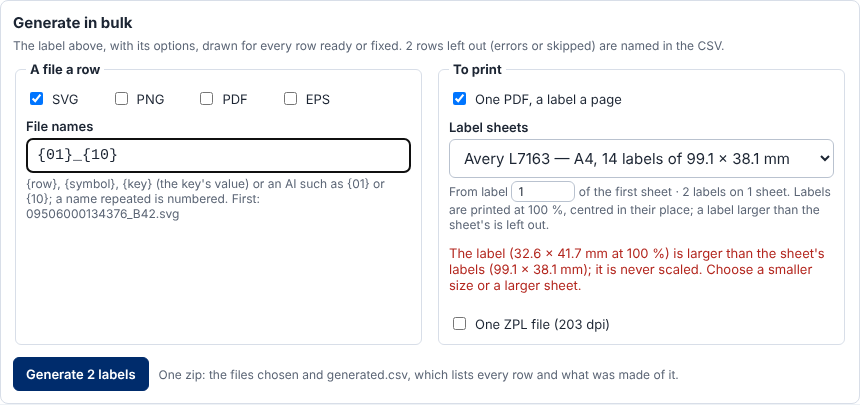
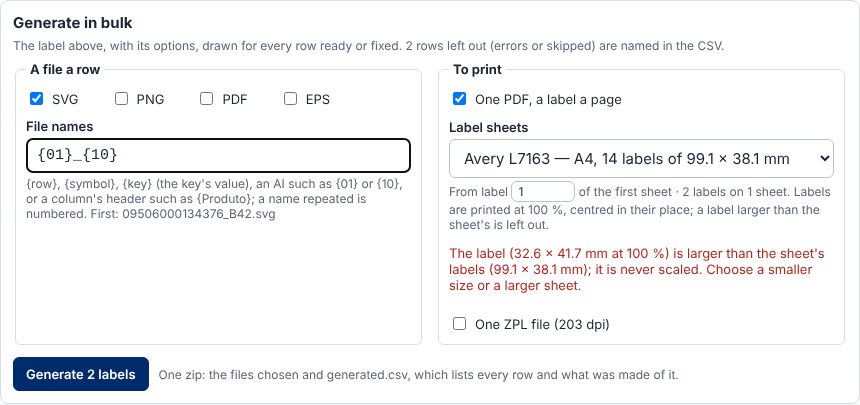
core, web, docs: file names from spreadsheet columns in bulk (4.2)
A bulk file name pattern knew {row}, {symbol}, {key} and AIs only, so files
could not be named by a column holding no AI, such as a product's name,
though a label of one's own could already show it. Any other name in braces
is now a column's header, matched as the label's {column} fields are (case
and surrounding spaces aside), on any label: the batch rows carry their
cells whatever the design. Accents are dropped before fileName, which keeps
ASCII letters only, so "Feijão" gives "Feijao" rather than "Feij-o".

The message for an unknown name was built with a nested template literal
the catalogue check could not read, so it was always shown in English; it is
now a plain template with its translations.

Claude-Session: https://claude.ai/code/session_01AV1ostLpLRPqG3Amnb7ba7

Changed region(s): [[0.0302, 0.4444, 0.4837, 0.563]]

diff --git a/packages/core/src/batch.ts b/packages/core/src/batch.ts
@@ -14,7 +14,7 @@ import { labelPng, pngAt } from "./png.ts";
 import { toDelimited } from "./report.ts";
 import { fitsSheet, sheetPages, type LabelSheet } from "./sheets.ts";
 import { fileName, zipArchive } from "./zip.ts";
-import { designLabel, turnedRect, type DesignedLabel, type DesignPage } from "./design.ts";
+import { columnCell, designLabel, turnedRect, type DesignedLabel, type DesignPage } from "./design.ts";
 import { logisticLabel, logisticPage, type LogisticLabel, type LogisticSize, type LogisticTwoD } from "./logistic.ts";
 import { pictureBitmap, resample } from "./picture.ts";
 import { joinPrintFiles, printFileBytes, PrinterUnsupportedError, type PrintFile, type PrintPage } from "./printers.ts";
@@ -320,7 +320,10 @@ export interface BatchRow {
   /** The row's number in the file, as a spreadsheet numbers it. */
   row: number;
   identified?: Identified;
-  /** The row's cells by their column's header, for a label of one's own's `{column}` fields (`fillFields`). */
+  /**
+   * The row's cells by their column's header, for a label of one's own's `{column}` fields (`fillFields`) and the file
+   * names' (`patternName`).
+   */
   cells?: Record<string, string>;
   /** Why the row cannot be drawn (the Syntax Engine's message), or that it was skipped. */
   error?: string;
@@ -331,7 +334,10 @@ export interface BatchRequest {
   design: LabelDesign;
   /** A file of each kind for every row. */
   files: readonly BatchFile[];
-  /** The files' names: `{row}`, `{symbol}`, `{key}` (the key's value) and any AI in braces, such as `{01}` or `{10}`. */
+  /**
+   * The files' names: `{row}`, `{symbol}`, `{key}` (the key's value), any AI in braces, such as `{01}` or `{10}`, and
+   * any column's header, such as `{Produto}` (the row's cell).
+   */
   pattern: string;
   /** One PDF with a label a page. */
   pdf: boolean;
@@ -365,24 +371,36 @@ export function patternTokens(pattern: string): string[] {
   return [...pattern.matchAll(/\{([^{}]*)\}/g)].map((m) => m[1]!);
 }
 
-/** What is wrong with a name pattern, or null: an unknown name in braces. */
-export function patternProblem(pattern: string): string | null {
+/**
+ * What is wrong with a name pattern, or null: an unknown name in braces. The spreadsheet's `columns` (its headers) are
+ * names it knows, their case and surrounding spaces aside.
+ */
+export function patternProblem(pattern: string, columns: readonly string[] = []): string | null {
   if (!pattern.trim()) return "The pattern is empty.";
-  const unknown = patternTokens(pattern).filter((t) => !["row", "symbol", "key"].includes(t) && !/^\d{2,4}$/.test(t));
-  return unknown.length
-    ? `Not a name the pattern knows: ${unknown.map((t) => `{${t}}`).join(", ")}. Use {row}, {symbol}, {key} or an AI such as {01} or {10}.`
-    : null;
+  const headers = new Set(columns.map((c) => c.trim().toLowerCase()).filter(Boolean));
+  const unknown = patternTokens(pattern).filter((t) =>
+    !["row", "symbol", "key"].includes(t) && !/^\d{2,4}$/.test(t) && !headers.has(t.trim().toLowerCase()));
+  if (!unknown.length) return null;
+  const names = unknown.map((name) => "{" + name + "}").join(", ");
+  return `Not a name the pattern knows: ${names}. Use {row}, {symbol}, {key}, an AI such as {01} or {10}, or a column's header such as {Produto}.`;
 }
 
-/** A row's file name, without its extension: the pattern's names replaced, then made safe for a file system. */
-export function patternName(pattern: string, row: number, symbology: SymbologyId, identified: Identified): string {
+/**
+ * A row's file name, without its extension: the pattern's names replaced, then made safe for a file system. A name that
+ * is neither {row}, {symbol}, {key} nor an AI is a column's header: the row's cell under it (`columnCell`, from `cells`).
+ * Letters lose their accents.
+ */
+export function patternName(pattern: string, row: number, symbology: SymbologyId, identified: Identified,
+  cells?: Readonly<Record<string, string>>): string {
   const values = new Map(identified.elements.map((e) => [e.ai, e.value]));
   const name = pattern.replace(/\{([^{}]*)\}/g, (_, token: string) =>
     token === "row" ? String(row)
     : token === "symbol" ? symbology
     : token === "key" ? (identified.elements[0]?.value ?? "")
-    : (values.get(token) ?? ""));
-  return fileName(name).replace(/^[-_.]+|[-_.]+$/g, "") || `row-${row}`;
+    : /^\d{2,4}$/.test(token) ? (values.get(token) ?? "")
+    : (columnCell(cells, token) ?? ""));
+  // Accents dropped first ("Feijão" → "Feijao"), as fileName keeps ASCII letters only
+  return fileName(name.normalize("NFD").replace(/\p{M}/gu, "")).replace(/^[-_.]+|[-_.]+$/g, "") || `row-${row}`;
 }
 
 /** Names made unique in their order: a name seen before gets "-2", "-3"…. */
@@ -424,7 +442,7 @@ export async function generateBatch(rows: readonly BatchRow[], request: BatchReq
     }
   });
   const ready = drawn.filter((d) => d.label);
-  const names = uniqueNames(ready.map((d) => patternName(request.pattern, d.row.row, design.symbology, d.row.identified!)));
+  const names = uniqueNames(ready.map((d) => patternName(request.pattern, d.row.row, design.symbology, d.row.identified!, d.row.cells)));
   ready.forEach((d, i) => (d.name = names[i]));
 
   const files: { name: string; bytes: Uint8Array }[] = [];

diff --git a/packages/core/test/batch.test.ts b/packages/core/test/batch.test.ts
@@ -163,6 +163,23 @@ describe("file names", () => {
     expect(patternProblem("{row}{8020}")).toBeNull();
     expect(patternProblem("  ")).toMatch(/empty/);
   });
+
+  // Backlog 4.2: a column's header in braces names the files by the row's cell, on any label, not only one's own
+  it("replaces a column's header by the row's cell, its case and surrounding spaces aside, and knows the headers", () => {
+    const identified = engine.parse("(01)09506000134376(10)B42") as never;
+    const cells = { " Produto ": "Pesto alla genovese", Região: "Sul", "10": "ten", row: "r", Vazio: "" };
+    expect(patternName("{produto}_{10}", 7, "dl-qrcode", identified, cells)).toBe("Pesto-alla-genovese_B42");
+    expect(patternName("{ REGIÃO }-{row}", 7, "dl-qrcode", identified, cells)).toBe("Sul-7"); // {row} is the row, not the column
+    expect(patternName("{Cor}{Vazio}", 7, "dl-qrcode", identified, cells)).toBe("row-7"); // no such column, an empty cell
+    expect(patternName("{Produto}", 7, "dl-qrcode", identified)).toBe("row-7"); // no cells
+    expect(patternName("{Produto}", 7, "dl-qrcode", identified, { Produto: "Feijão Ñandú" })).toBe("Feijao-Nandu");
+    const headers = ["GTIN", " Produto ", "Região", ""];
+    expect(patternProblem("{produto}_{ Região }_{01}", headers)).toBeNull();
+    expect(patternProblem("{Produto}_{Cor}", headers)).toBe(
+      "Not a name the pattern knows: {Cor}. Use {row}, {symbol}, {key}, an AI such as {01} or {10}, or a column's header such as {Produto}.");
+    expect(patternProblem("{Produto}_{}", headers)).toMatch(/knows: \{\}\./); // an empty header is no name
+    expect(patternProblem("{Produto}")).toMatch(/knows: \{Produto\}\./); // no spreadsheet
+  });
 });
 
 describe("generating every row", () => {
@@ -295,6 +312,9 @@ describe("generating every row", () => {
     expect(await read(svgPng(svg("B42.svg")))).toEqual(["]Q1 https://id.gs1.org/01/09506000134376/10/B42"]);
     const zpl = new TextDecoder().decode(files.get("labels_dl-qrcode_203dpi.zpl"));
     expect(zpl.match(/\^FD(Tapenade|Pesto alla genovese|LOTE B4\d)\^FS/g)).toEqual(["^FDTapenade^FS", "^FDLOTE B42^FS", "^FDPesto alla genovese^FS", "^FDLOTE B43^FS"]);
+    // The files named by a column, a design without fields too
+    const named = await generateBatch(rows, { design: QR, files: ["svg"], pattern: "{produto}_{row}", pdf: false }, font);
+    expect([...unzip(named.zip).keys()]).toEqual(["Tapenade_2.svg", "Pesto-alla-genovese_3.svg", "generated.csv"]);
     // Without the cells (a single label) the field stays as typed
     expect(labelFor(rows[0]!.identified!, design, font).layout.texts.map((t) => t.text)).toEqual(["{Produto}", "LOTE B42"]);
   }, SLOW);

diff --git a/apps/web/e2e/editor.spec.ts b/apps/web/e2e/editor.spec.ts
@@ -453,6 +453,34 @@ test("a label of one's own in bulk: a {column} field shows each row's cell, on t
   expect(zpl.match(/\^FD[^^]*(Tapenade|genovese|Liguria|\{Cor\})[^^]*\^FS/g)).toEqual(["^FDFinest Truffle Tapenade^FS", "^FDLiguria · {Cor}^FS", "^FDPesto alla genovese^FS", "^FD · {Cor}^FS"]);
 });
 
+// Backlog 4.2: a column's header in braces names the generated files by each row's cell, on any label
+test("in bulk: a column's header in the file names pattern names each row's files by its cell", async ({ page }) => {
+  await page.getByRole("button", { name: "In bulk" }).click();
+  await page.fill("#rows-paste", "GTIN\tLote\tProduto\tRegião\n09506000134376\tB42\tFeijão Tropeiro\tSul\n09506000134352\tB43\tPesto alla genovese\t\n");
+  await page.getByRole("button", { name: "Use the pasted rows" }).click();
+  await expect(page.locator(".summary")).toContainText("2 rows ready");
+  await on(page, "export");
+  const panel = page.locator(".generate");
+  await expect(panel.locator(".hint", { hasText: "column's header" })).toContainText("or a column's header such as {Produto}");
+  await page.locator("#gen-pattern").fill("{produto}_{Cor}");
+  await expect(panel.locator(".error")).toHaveText(
+    "Not a name the pattern knows: {Cor}. Use {row}, {symbol}, {key}, an AI such as {01} or {10}, or a column's header such as {Produto}.");
+  await expect(page.getByRole("button", { name: "Generate 2 labels" })).toBeDisabled();
+  await page.locator("#gen-pattern").fill("{produto}_{ REGIÃO }_{10}");
+  await expect(panel).toContainText("First: Feijao-Tropeiro_Sul_B42.svg");
+  const [download] = await Promise.all([page.waitForEvent("download"), page.getByRole("button", { name: "Generate 2 labels" }).click()]);
+  expect(execFileSync("unzip", ["-Z1", (await download.path())!], { encoding: "utf8" }).split("\n").filter(Boolean)).toEqual([
+    "Feijao-Tropeiro_Sul_B42.svg", "Pesto-alla-genovese__B43.svg", "labels_dl-qrcode.pdf", "generated.csv",
+  ]);
+  // In Portuguese, the message too
+  await on(page, "more");
+  await page.selectOption("#language", "pt-BR");
+  await on(page, "export");
+  await page.locator("#gen-pattern").fill("{Cor}");
+  await expect(panel.locator(".error")).toHaveText(
+    "O nome não é conhecido pelo padrão: {Cor}. Use {row}, {symbol}, {key}, um AI como {01} ou {10}, ou o cabeçalho de uma coluna como {Produto}.");
+});
+
 // Item 2.1 (mock-up A of 29 October 2026): in bulk, rows from a file or pasted, their columns, the row shown.
 test("in bulk: an Excel workbook's rows, columns guessed from their headers, each row drawn and checked", async ({ page }) => {
   await page.getByRole("button", { name: "In bulk" }).click();

diff --git a/apps/web/src/GeneratePanel.tsx b/apps/web/src/GeneratePanel.tsx
@@ -24,6 +24,8 @@ interface Props {
   left: number;
   /** The first row's file name for a pattern, as an example. */
   example: (pattern: string) => string | null;
+  /** The spreadsheet's headers: a column's header in braces names the files by the row's cell. */
+  columns: readonly string[];
   dpi: number;
   /** The label shown, in mm at 100 %: whether it fits the sheet's labels. */
   labelMm?: readonly [number, number];
@@ -79,7 +81,7 @@ function Num({ id, label, value, onChange }: { id: string; label: string; value:
   );
 }
 
-export function GeneratePanel({ ready, left, example, dpi, labelMm, progress, result, error, onGenerate, onCancel, languageName }: Props) {
+export function GeneratePanel({ ready, left, example, columns, dpi, labelMm, progress, result, error, onGenerate, onCancel, languageName }: Props) {
   const [choice, setChoice] = useState<Kept>(kept);
   const [start, setStart] = useState(1);
   const update = (next: Partial<Kept>) => {
@@ -95,7 +97,7 @@ export function GeneratePanel({ ready, left, example, dpi, labelMm, progress, re
   const perSheet = sheet ? sheet.columns * sheet.rows : 0;
   const from = Math.min(Math.max(1, Math.floor(start) || 1), perSheet || 1);
   const sheets = sheet ? Math.ceil((from - 1 + ready) / perSheet) : 0;
-  const problem = patternProblem(choice.pattern) ?? (sheet ? sheetProblem(sheet) : null);
+  const problem = patternProblem(choice.pattern, columns) ?? (sheet ? sheetProblem(sheet) : null);
   const tooLarge = sheet && labelMm && !sheetProblem(sheet) ? fitsSheet(labelMm[0], labelMm[1], sheet) : null;
   const nothing = !choice.files.length && !choice.pdf && !sheet && !choice.zpl;
   const first = choice.files.length && !problem ? example(choice.pattern) : null;
@@ -128,7 +130,7 @@ export function GeneratePanel({ ready, left, example, dpi, labelMm, progress, re
           </div>
           <label htmlFor="gen-pattern">{t("File names")}</label>
           <input id="gen-pattern" className="mono" value={choice.pattern} spellCheck={false}
-            aria-invalid={Boolean(patternProblem(choice.pattern))} onChange={(e) => update({ pattern: e.target.value })} />
+            aria-invalid={Boolean(patternProblem(choice.pattern, columns))} onChange={(e) => update({ pattern: e.target.value })} />
           <div className="hint">
             {t(GENERATE_TEXTS.pattern)}
             {first ? ` ${t("First: {name}", { name: `${first}.${choice.files[0]}` })}` : ""}

diff --git a/apps/web/src/App.tsx b/apps/web/src/App.tsx
@@ -516,7 +516,7 @@ export function App({ onStartOver, onLocale }: { locale?: Locale; onStartOver?: 
   // In bulk: every row ready or fixed drawn with the label's design, in one zip (backlog 2.4).
   const batchRows: BatchRow[] = rows.map((row, index) => ({
     row: row.row, ...(row.identified ? { identified: row.identified } : {}), ...(row.error ? { error: row.error } : {}),
-    ...(skipped.has(index) ? { skipped: true } : {}), ...(settings.designer ? { cells: cellsOf(index) } : {}),
+    ...(skipped.has(index) ? { skipped: true } : {}), cells: cellsOf(index),
   }));
   const readyRows = batchRows.filter((row) => row.identified && !row.skipped);
   // Generated in a worker (backlog 2.5): the page stays usable, the progress shows, and Cancel ends the worker.
@@ -952,7 +952,8 @@ export function App({ onStartOver, onLocale }: { locale?: Locale; onStartOver?: 
                 <GeneratePanel
                   ready={blocked || !font ? 0 : readyRows.length}
                   left={batchRows.length - readyRows.length}
-                  example={(pattern) => readyRows[0] ? patternName(pattern, readyRows[0].row, symbology, readyRows[0].identified!) : null}
+                  example={(pattern) => readyRows[0] ? patternName(pattern, readyRows[0].row, symbology, readyRows[0].identified!, readyRows[0].cells) : null}
+                  columns={edited?.headers ?? []}
                   dpi={settings.dpi}
                   {...(view.widthMm && view.heightMm ? { labelMm: [view.widthMm, view.heightMm] as const } : {})}
                   progress={progress}

diff --git a/apps/web/src/texts.ts b/apps/web/src/texts.ts
@@ -268,7 +268,7 @@ export const BULK_TEXTS = {
 // In bulk, generating every row (backlog 2.4).
 export const GENERATE_TEXTS = {
   intro: "The label above, with its options, drawn for every row ready or fixed.",
-  pattern: "{row}, {symbol}, {key} (the key's value) or an AI such as {01} or {10}; a name repeated is numbered.",
+  pattern: "{row}, {symbol}, {key} (the key's value), an AI such as {01} or {10}, or a column's header such as {Produto}; a name repeated is numbered.",
   sheet: "Labels are printed at 100 %, centred in their place; a label larger than the sheet's is left out.",
   zip: "One zip: the files chosen and generated.csv, which lists every row and what was made of it.",
   nothing: "Choose at least one file to generate.",

diff --git a/docs/test-inventory.md b/docs/test-inventory.md
@@ -1,6 +1,6 @@
 # Inventory of features from the tests
 
-Every test of the core's suite, of the web application's unit tests and of the editor's browser tests on 2026-11-06: 940 tests in 43 files. Each line is a test's name, a sentence that says what is true when it passes; together they say what the studio does and that it works. Each feature of [features.md](features.md) names the tests that prove it. Generated by `node scripts/inventory.mjs` from a complete run of the core's tests and the list of the browser tests ([ADR 0005](adr/0005-documentation-and-feature-inventory.md)); do not edit by hand.
+Every test of the core's suite, of the web application's unit tests and of the editor's browser tests on 2026-11-06: 942 tests in 43 files. Each line is a test's name, a sentence that says what is true when it passes; together they say what the studio does and that it works. Each feature of [features.md](features.md) names the tests that prove it. Generated by `node scripts/inventory.mjs` from a complete run of the core's tests and the list of the browser tests ([ADR 0005](adr/0005-documentation-and-feature-inventory.md)); do not edit by hand.
 
 Every unit test ran and passed in the run that wrote this file, the ZPL printed by Labelary included (`LABELARY=1`), but the documents' own test (`docs`), which checks this file and runs right after it is written. The browser tests are listed by Playwright and run by CI against the built application, on a desktop, a phone and a tablet held horizontally (a test about one layout is skipped in the others).
 
@@ -10,13 +10,13 @@ Every unit test ran and passed in the run that wrote this file, the ZPL printed 
 | [Where it is scanned: the guided choice and the symbol specification tables](#where-it-is-scanned-the-guided-choice-and-the-symbol-specification-tables) | `environments`, `guide`, `specifications` | 185 |
 | [Symbols and the label's layout](#symbols-and-the-labels-layout) | `bars`, `design`, `gs1128`, `hriplace`, `imagefile`, `labelsvg`, `layout`, `logistic`, `picture`, `place`, `pyformat`, `qrmode` | 128 |
 | [Exports and prepress: SVG, PNG, PDF, EPS, zip](#exports-and-prepress-svg-png-pdf-eps-zip) | `prepress`, `render`, `roundtrip` | 52 |
-| [In bulk: rows, the report, sequences, generation](#in-bulk-rows-the-report-sequences-generation) | `batch`, `bulk`, `report`, `sequence`, `table` | 78 |
+| [In bulk: rows, the report, sequences, generation](#in-bulk-rows-the-report-sequences-generation) | `batch`, `bulk`, `report`, `sequence`, `table` | 79 |
 | [Printers: the dot grid, profiles, ZPL, TSPL, EPL2 and DPL](#printers-the-dot-grid-profiles-zpl-tspl-epl2-and-dpl) | `dots`, `labelary`, `printer`, `printlangs`, `zpl` | 216 |
 | [RFID, NFC and digital signatures](#rfid-nfc-and-digital-signatures) | `epc`, `ndef`, `sign` | 124 |
 | [The work saved on one's own computer and opened again](#the-work-saved-on-ones-own-computer-and-opened-again) | `lastwork`, `opened`, `work` | 9 |
 | [The interface's languages: English, Brazilian Portuguese, Spanish](#the-interfaces-languages-english-brazilian-portuguese-spanish) | `i18n` | 9 |
 | [The documents](#the-documents) | `docs` | 7 |
-| [The editor in the browser (Playwright, desktop, phone and tablet)](#the-editor-in-the-browser-playwright-desktop-phone-and-tablet) | `editor`, `layouts` | 64 |
+| [The editor in the browser (Playwright, desktop, phone and tablet)](#the-editor-in-the-browser-playwright-desktop-phone-and-tablet) | `editor`, `layouts` | 65 |
 
 ## Input and identification: the Syntax Engine, keys, qualifiers, attributes
 
@@ -576,7 +576,7 @@ Every unit test ran and passed in the run that wrote this file, the ZPL printed 
 
 ## In bulk: rows, the report, sequences, generation
 
-<details><summary><code>batch</code> — 13 tests (<code>packages/core/test/batch.test.ts</code>)</summary>
+<details><summary><code>batch</code> — 14 tests (<code>packages/core/test/batch.test.ts</code>)</summary>
 
 - label sheets › describes each sheet offered within its page, its labels centred
 - label sheets › refuses a custom sheet whose labels overlap or leave the page, or whose numbers are not sizes
@@ -584,6 +584,7 @@ Every unit test ran and passed in the run that wrote this file, the ZPL printed 
 - label sheets › lays the labels row by row from the place given, a new page when one is full; each read back
 - a PDF of several pages › writes each page its size, the cross-reference table right, and one page as labelPdf writes it
 - file names › replaces the row, the symbol, the key's value and any AI, and makes the name safe
+- file names › replaces a column's header by the row's cell, its case and surrounding spaces aside, and knows the headers
 - generating every row › makes each row's files, numbers repeated names, leaves out errors and skipped rows, and lists them all
 - generating every row › writes the print file in the printer's language: TSPL, each label its own SIZE and PRINT
 - generating every row › prints the human readable text chosen: every element string, the key's alone, or none
@@ -1121,7 +1122,7 @@ Every unit test ran and passed in the run that wrote this file, the ZPL printed 
 
 ## The editor in the browser (Playwright, desktop, phone and tablet)
 
-<details><summary><code>editor</code> — 57 tests (<code>apps/web/e2e/editor.spec.ts</code>)</summary>
+<details><summary><code>editor</code> — 58 tests (<code>apps/web/e2e/editor.spec.ts</code>)</summary>
 
 - qualifiers and a decimal attribute go into the URI as typed
 - a wrong check digit says which it should be
@@ -1144,6 +1145,7 @@ Every unit test ran and passed in the run that wrote this file, the ZPL printed 
 - works offline once loaded, the scan test too
 - tobacco unit packs: GS1 DotCode named but not drawn, GS1 DataMatrix at table 12's size
 - a label of one's own in bulk: a {column} field shows each row's cell, on the label and in the print file
+- in bulk: a column's header in the file names pattern names each row's files by its cell
 - in bulk: an Excel workbook's rows, columns guessed from their headers, each row drawn and checked
 - in bulk: pasted rows, a value for every row, and the columns remembered for the same headers
 - in bulk: the validation report, a cell fixed in place, rows skipped, the report and the corrected rows

diff --git a/docs/features.md b/docs/features.md
@@ -153,6 +153,7 @@ Which standard each follows: [conformance](conformance.md).
 | A date field in a format | `{17:DD/MM/YYYY}` in a text block writes the date in that format: **Insert a field from the data** offers each date AI (those whose value starts with YYMMDD) also as DD/MM/YYYY, DD.MM.YYYY, YYYY-MM-DD, MM/YYYY and DD MMM YYYY, each shown with the date it gives (mock-up B of two); any format of `DD`, `MM`, `MMM`, `YY` and `YYYY` typed; the century as section 7.12 chooses it, day 00 the month's last; drawn and printed as text; a format after an AI that is not a date, or without a part of the date, refused | `4ada8c8` | `design`: writes a date field in the format it names · `design`: prints a date field in its format · `editor`: barcodes and text placed and moved |
 | A date's month in Portuguese or Spanish | **Month names** on a text block whose text has `MMM`: English (JAN to DEC), Portuguese (JAN, FEV, MAR, ABR, MAI, JUN, JUL, AGO, SET, OUT, NOV, DEZ) or Spanish (ENE, FEB, MAR, ABR, MAY, JUN, JUL, AGO, SEP, OCT, NOV, DIC), in the drawing and the print files alike; a new text block starts in the interface's language (mock-up B of two) | `b43efe1` | `design`: writes a date's month in the text block's language · `design`: prints a date field in its format · `editor`: a new text block writes its months in Portuguese · `editor`: barcodes and text placed and moved |
 | Fields bound to spreadsheet columns | In bulk, a text block's `{column}` field shows the row's cell under that header: **Insert a field from the data** also offers, under *Columns of the spreadsheet*, each column holding no AI, with the row shown's value (mock-up A of two, taken under the owner's rule); the header's case and the spaces around it aside; each row's label and print file with its own cells; a name no column has stays as typed | `8b55a0c` | `design`: fills a {column} field from the row's cell · `bulk`: keeps each cell trimmed under its header · `bulk`: offers as fields the columns holding no AI · `batch`: fills each row's {column} fields of a label of one's own · `editor`: a label of one's own in bulk: a {column} field shows each row's cell |
+| File names from spreadsheet columns | In bulk, **File names** takes any column's header in braces, such as `{Produto}`, for the row's cell, on any label, not only one's own; the header's case and the spaces around it aside, accents dropped (*Feijão* → *Feijao*); a name that is neither `{row}`, `{symbol}`, `{key}`, an AI nor a header refused before generating, in the interface's language | `PENDING` | `batch`: replaces a column's header by the row's cell · `batch`: fills each row's {column} fields of a label of one's own · `editor`: in bulk: a column's header in the file names pattern |
 | A label of one's own in EPL2 | As in ZPL: each barcode with the commands of the symbol alone where the page puts it, each line of text with `A` in the font nearest its height that fits its width; what EPL2 refuses for a symbol alone refused here too | `1fa0231` | `printlangs`: epl: a label of one's own at · `design`: writes the page in ZPL |
 | A new element beside, not over, another | **+ Barcode**, **+ Text** and **+ Shape** put the new element at their usual corner; where an element already has it, 5 mm right and down, and again along the page, a diagonal at a time (the owner: one made over another went unnoticed) | `80f604e` | `place`: at its corner when no element has it · `place`: past the page's foot · `editor`: each new element a step right and down |
 | An image on a label of one's own | **+ Image** (mock-up A of two, taken under the owner's rule): a PNG, JPEG, GIF, WebP or SVG file placed 20 mm wide, its height from its proportions, in black and white as label printers print (a pixel's grey over white below half way dark; at most 600 pixels a side, a larger one scaled down); **Replace…**; drawn in SVG, PNG, PDF and EPS; in ZPL as `^GFA` at the printer's dots (each dot the pixel under its centre), in stripes past one field, every dot as Labelary prints it; past the label's edge named and refused in a print file; kept in the work file; in EPL2 as `GW` (see its own row) | `e330822` | `picture`: is dark where a pixel's grey · `picture`: is resampled to a printer's dots · `picture`: is drawn as rectangles · `design`: draws an image where the page puts it · `labelary`: its image printed dot for dot · `labelary`: an image larger than one graphic field · `work`: refuses a work file with a part · `editor`: an image added, sized |

diff --git a/docs/core-api.md b/docs/core-api.md
@@ -656,8 +656,8 @@ Every row's label from one design: files by a name pattern, PDF, sheets, ZPL, a 
 | `DEFAULT_PATTERN` | const | `const DEFAULT_PATTERN` |  |
 | `generateBatch` | function | `async function generateBatch(rows: readonly BatchRow[], request: BatchRequest, font: HriFont, onProgress?: (done: number, total: number) =&gt; void): Promise&lt;Ba…` | Every row's label as the request asks, in one zip: the files of each row, the label-a-page PDF, the label sheets, the ZPL file, and `generated.csv` listing each row, what was made of it, or why nothing was. Rows skipped or in error are left out and named in the CSV, as are rows the design cannot draw (data its symbol cannot carry, a label larger than the sheet's). |
 | `labelFor` | function | `function labelFor(identified: Identified, design: LabelDesign, font: HriFont, cells?: Readonly&lt;Record&lt;string, string&gt;&gt;): DrawnLabel` | The label of `identified` as `design` lays it out; an `InputError` when this data cannot be drawn so. In bulk, `cells` (a row's cells by their column's header) fill a label of one's own's `{column}` fields. |
-| `patternName` | function | `function patternName(pattern: string, row: number, symbology: SymbologyId, identified: Identified): string` | A row's file name, without its extension: the pattern's names replaced, then made safe for a file system. |
-| `patternProblem` | function | `function patternProblem(pattern: string): string \| null` | What is wrong with a name pattern, or null: an unknown name in braces. |
+| `patternName` | function | `function patternName(pattern: string, row: number, symbology: SymbologyId, identified: Identified, cells?: Readonly&lt;Record&lt;string, string&gt;&gt;): string` | A row's file name, without its extension: the pattern's names replaced, then made safe for a file system. A name that is neither {row}, {symbol}, {key} nor an AI is a column's header: the row's cell under it (`columnCell`, from `cells`). Letters lose their accents. |
+| `patternProblem` | function | `function patternProblem(pattern: string, columns: readonly string[] = []): string \| null` | What is wrong with a name pattern, or null: an unknown name in braces. The spreadsheet's `columns` (its headers) are names it knows, their case and surrounding spaces aside. |
 | `upperCaseDomain` | function | `function upperCaseDomain(uri: string): string` | A URI with its scheme and domain in capitals, which a QR code's alphanumeric mode can encode (backlog 1.14). |
 | `zplOptionsFor` | function | `function zplOptionsFor(drawn: DrawnLabel, design: LabelDesign, dpi: number, dotsPerModule?: number): ZplLabelOptions` | ZPL's placement of the label at `dpi`, with the printer's own commands (ADR 0002): a label just large enough for the symbol, its quiet zones (the table's row's; GS1 DataBar has none, so two modules) and text; ITF-14's bearer bars as the label has them, printed at ratio 3 (135 modules). |
 | `printFileFor` | function | `function printFileFor(language: PrinterLanguage, drawn: DrawnLabel, design: LabelDesign, dpi: number, dotsPerModule?: number, notes?: readonly string[]): Pri…` | The label's print file in the printer's language at `dpi`, a module `dotsPerModule` whole dots (the nearest when not given); with `notes`, the test label (backlog 3.1). The GS1 Logistic Label is written in ZPL and EPL2 (backlog 4.1), and in TSPL and DPL as a page of their own (`logisticPage`) where their GS1-128 carries it (an SSCC alone), a label of one's own in ZPL, EPL2, TSPL and DPL (backlog 4.2), each of its barcodes at its own whole dots a module: text, or bytes when EPL2 or TSPL sends an image (GW, BITMAP). |

diff --git a/docs/user-guide.md b/docs/user-guide.md
@@ -546,8 +546,10 @@ Under the Export bar, **Generate in bulk** draws the label shown, with its optio
 
 ![Generate in bulk: files a row, one PDF, label sheets, ZPL](images/guide/generate.png)
 
-- **A file a row**: SVG, PNG, PDF and/or EPS, named by **File names** — `{row}`, `{symbol}`, `{key}` or any AI such as
-  `{01}` or `{10}`; a name repeated is numbered. The first name is shown.
+- **A file a row**: SVG, PNG, PDF and/or EPS, named by **File names** — `{row}`, `{symbol}`, `{key}`, any AI such as
+  `{01}` or `{10}`, or any column's header such as `{Produto}` (the row's cell under it, the header's case and the
+  spaces around it aside; accents are dropped, as file names keep plain letters); a name repeated is numbered. The
+  first name is shown.
 - **To print**: **One PDF, a label a page**; **Label sheets** — Avery L7160, L7163, L7651, 5160 or a **Custom sheet…**
   (page, label size, columns × rows, margins and pitch) — each label at 100 % centred in its place, starting from any
   label of the first sheet. A label larger than the sheet's labels is said before generating; labels are never scaled.
@@ -601,7 +603,7 @@ code labels as SVG and one PDF took 10.7 s when measured ([performance targets](
 | *DPL's GS1-128 is offered for an SSCC (00) alone…*, *TSPL's GS1-128 is offered for an SSCC (00) alone…*, *DPL's Data Matrix (W1c) has no FNC1…* | DPL or TSPL cannot print it, or no test has read it back (a GS1 Logistic Label with more than an SSCC too) | Use a ZPL or EPL2 profile, or print the PDF |
 | *DPL sizes a QR code's module in tenths of a millimetre…* | The module's dots fall between DPL's sizes | Choose another size or printer |
 | *the A6 label is 148 mm high* (too short) | The page cannot hold its symbols | A larger page (A5, 6 × 8 in) |
-| *Not a name the pattern knows: {…}* | A file name pattern with an unknown name | `{row}`, `{symbol}`, `{key}` or an AI |
+| *Not a name the pattern knows: {…}* | A file name pattern with an unknown name | `{row}`, `{symbol}`, `{key}`, an AI or a column's header |
 
 ## 17. Glossary
 

diff --git a/README.md b/README.md
@@ -410,7 +410,8 @@ complete.
 - 2.4 Outputs: zip by row with a name pattern, multi-page PDF, laser label sheets (Pimaco, Avery, custom), one print
   file per printer language, CSV of what was generated — *done 30 October (mock-up A of three): "Generate in bulk"
   under the label's Export bar draws the label shown, with its options, for every row ready or fixed, in one zip: SVG,
-  PNG, PDF or EPS for each row, named by a pattern ({row}, {symbol}, {key}, any AI such as {10}; a name repeated is
+  PNG, PDF or EPS for each row, named by a pattern ({row}, {symbol}, {key}, any AI such as {10}, a column's header
+  since 6 November; a name repeated is
   numbered); one PDF a label a page; label sheets (Avery L7160, L7163, L7651, 5160 or a custom sheet), each label at
   100 % centred in its place, from any place of the first sheet, a label larger than the sheet's refused and said
   before generating; one ZPL file with the printer's own commands; generated.csv with every row, its files or why
@@ -498,7 +499,8 @@ complete.
   bound to spreadsheet columns since 6 November (mock-up A of two, taken under the owner's rule; B offered the columns
   in a second list): in bulk, **Insert a field from the data** also offers each column holding no AI, such as
   `{Produto}`, with the row shown's value; each row's label and print file show its own cell; a name no column has
-  stays as typed. Saving the label is 4.3*
+  stays as typed; the bulk **File names** take a column's header too, such as `{Produto}_{10}`, on any label (6
+  November, session 22). Saving the label is 4.3*
 - 4.3 The work saved on one's own computer and opened again, templates shared as files (the owner, 3 November 2026:
   save the work locally, perhaps by exporting ZPL and opening a ZPL as Labelary does) — *(a) and (b) done 3 November
   (mock-up A of two, taken under the owner's rule; B put a work file among the exports and Open in step 1): **Save**

diff --git a/docs/developer-guide.md b/docs/developer-guide.md
@@ -268,7 +268,7 @@ that say what is true; together they are the [inventory of features](test-invent
 |---|---|---:|
 | `attributes` | data attributes and decimal families, against the resolver | 29 |
 | `bars` | ITF-14, GS1-128 and GS1 DataBar laid out by their table, read back from SVG, PNG and PDF | 20 |
-| `batch` | label sheets, several-page PDF, file names, generating every row | 13 |
+| `batch` | label sheets, several-page PDF, file names, generating every row | 14 |
 | `bulk` | columns guessed from headers, cells normalised, rows checked | 39 |
 | `checkDigit` | the GS1 check digit | 5 |
 | `docs` | the documents in step with the code and the tests | 7 |
@@ -306,7 +306,7 @@ that say what is true; together they are the [inventory of features](test-invent
 | `lastwork` | the last work kept in this browser: not a first visit's, read back with its time, nothing offered when damaged (apps/web/test) | 3 |
 | `place` | where a new element lands on a label of one's own, never on another (apps/web/test) | 2 |
 | `imagefile` | the size an image file is drawn at before it becomes a picture (apps/web/test) | 1 |
-| `editor` | the editor in a browser, desktop, phone and tablet (Playwright) | 57 |
+| `editor` | the editor in a browser, desktop, phone and tablet (Playwright) | 58 |
 | `layouts` | the computer's, the phone's and the tablet's layouts, installing the app, About (Playwright) | 7 |
 | `printlangs` | TSPL, EPL2 and DPL rendered by Labelize and read back; what they refuse | 125 |
 
